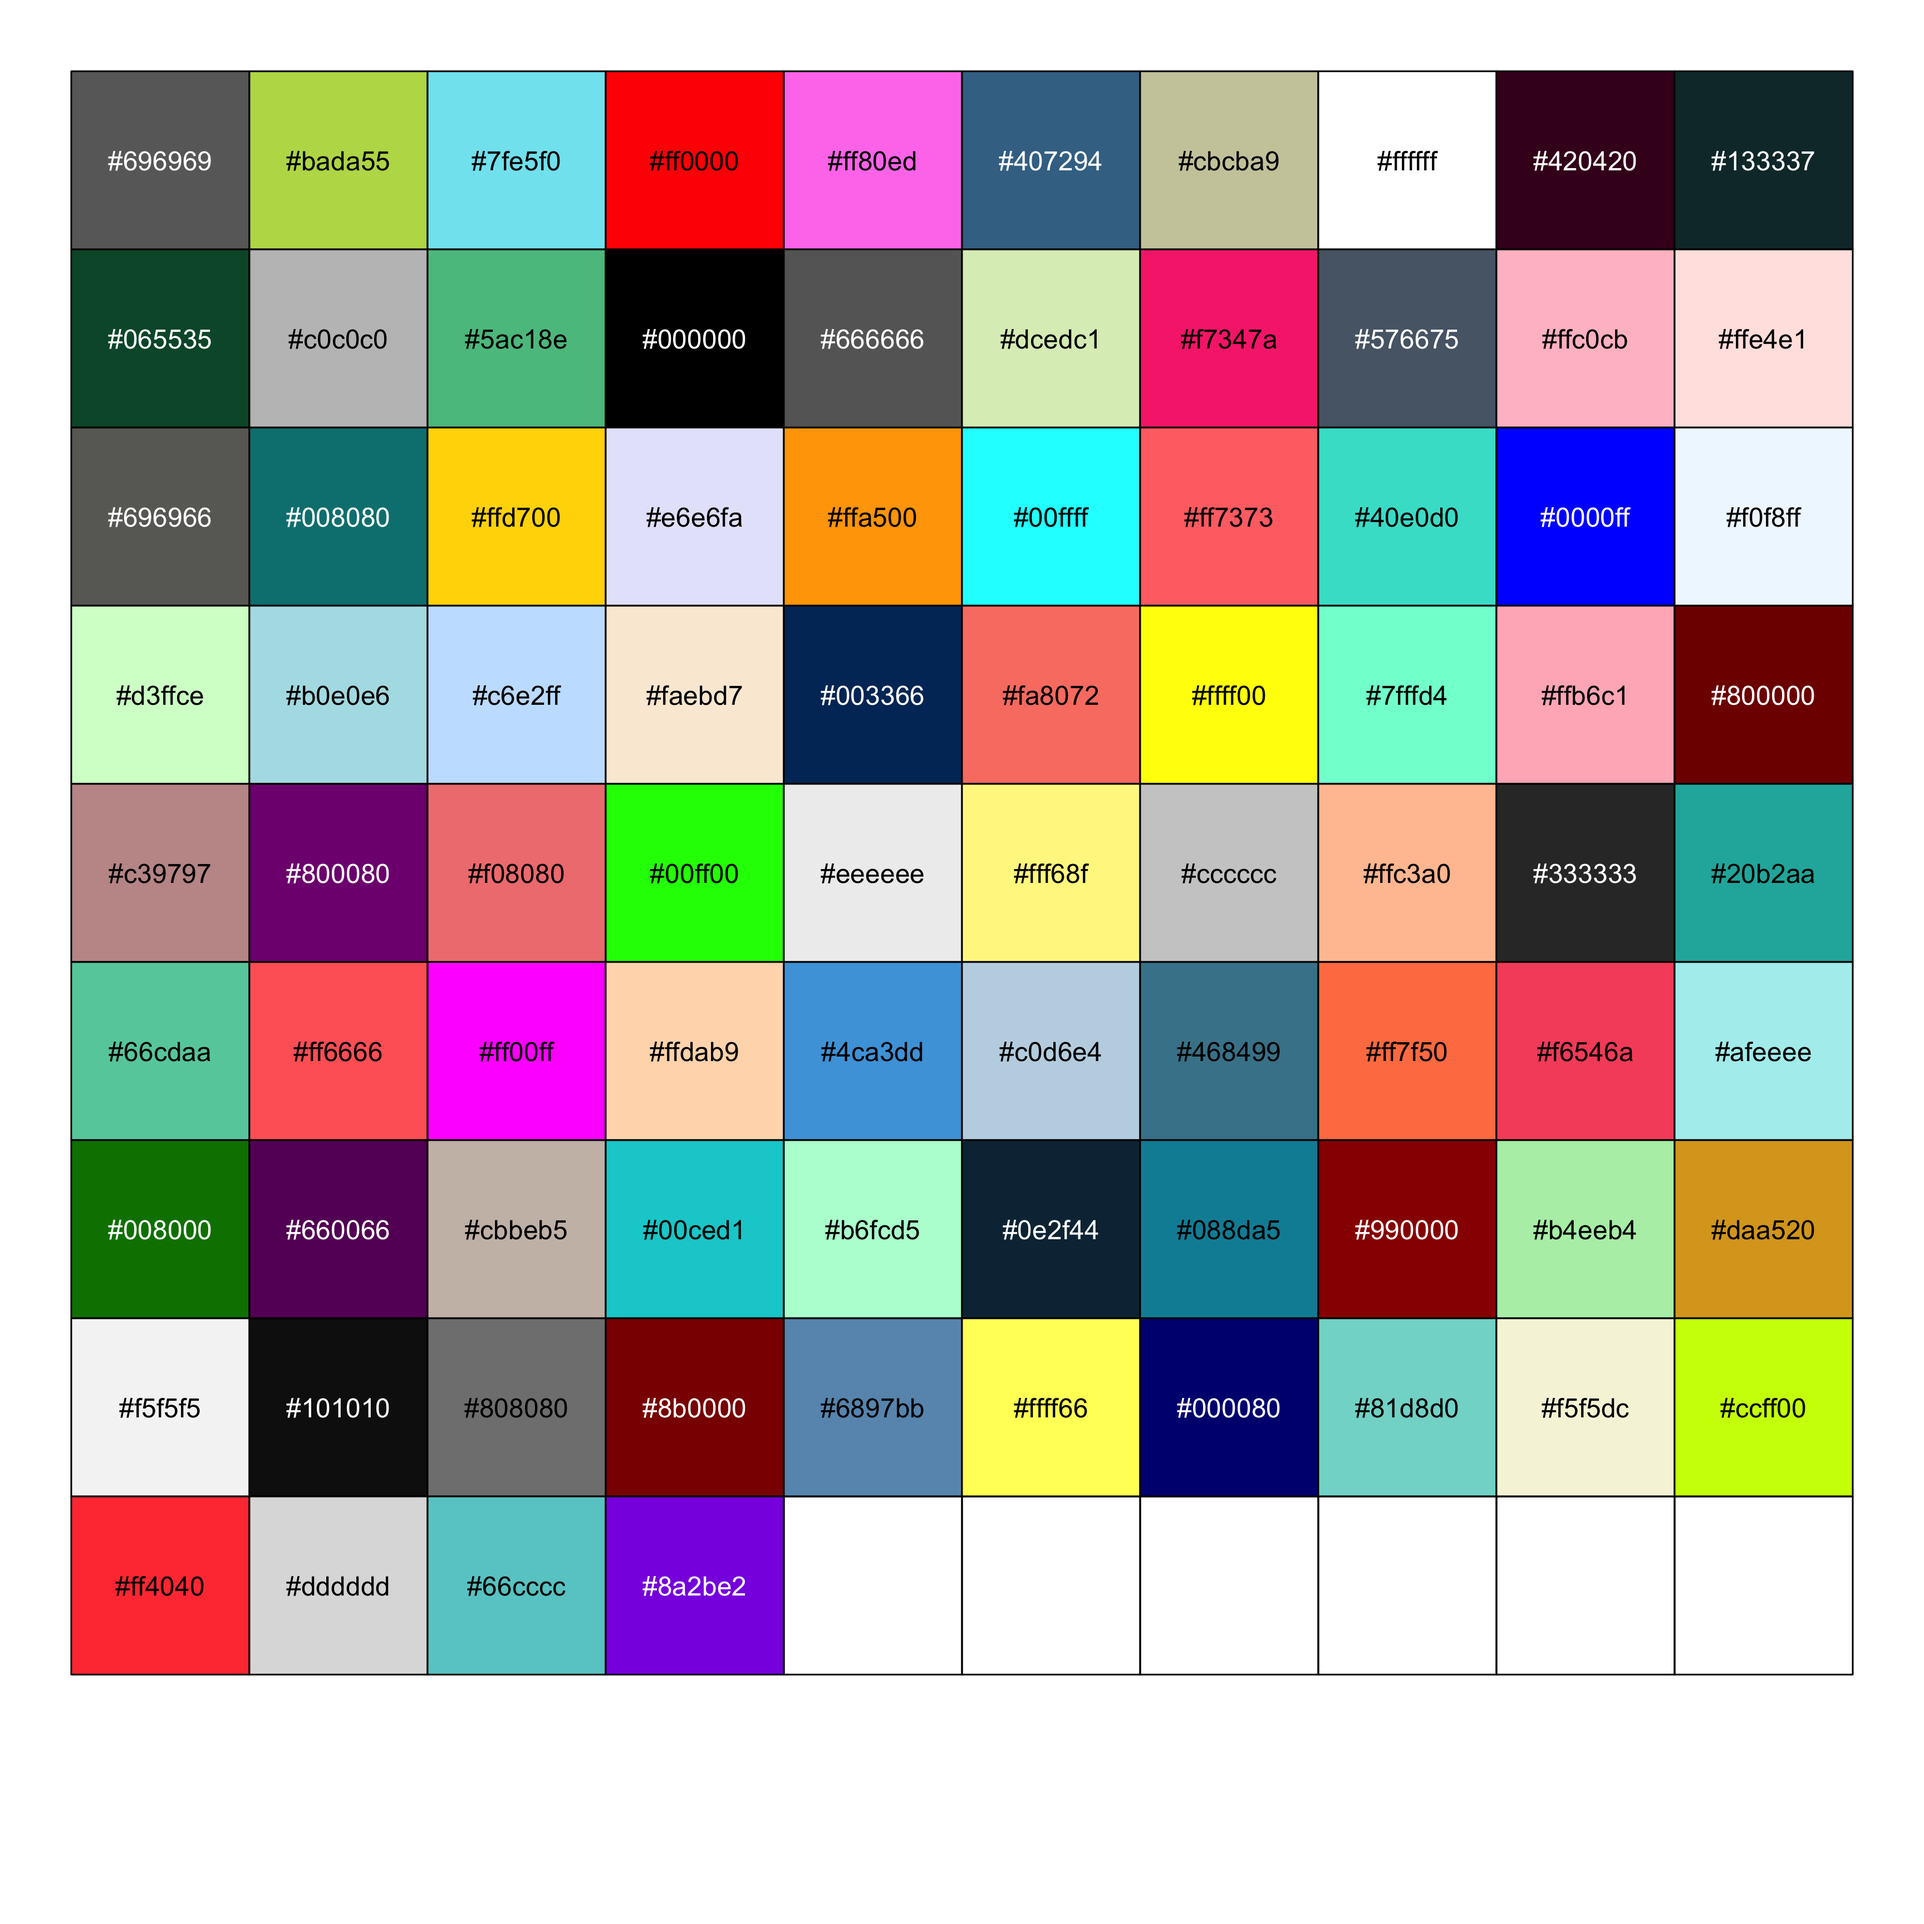
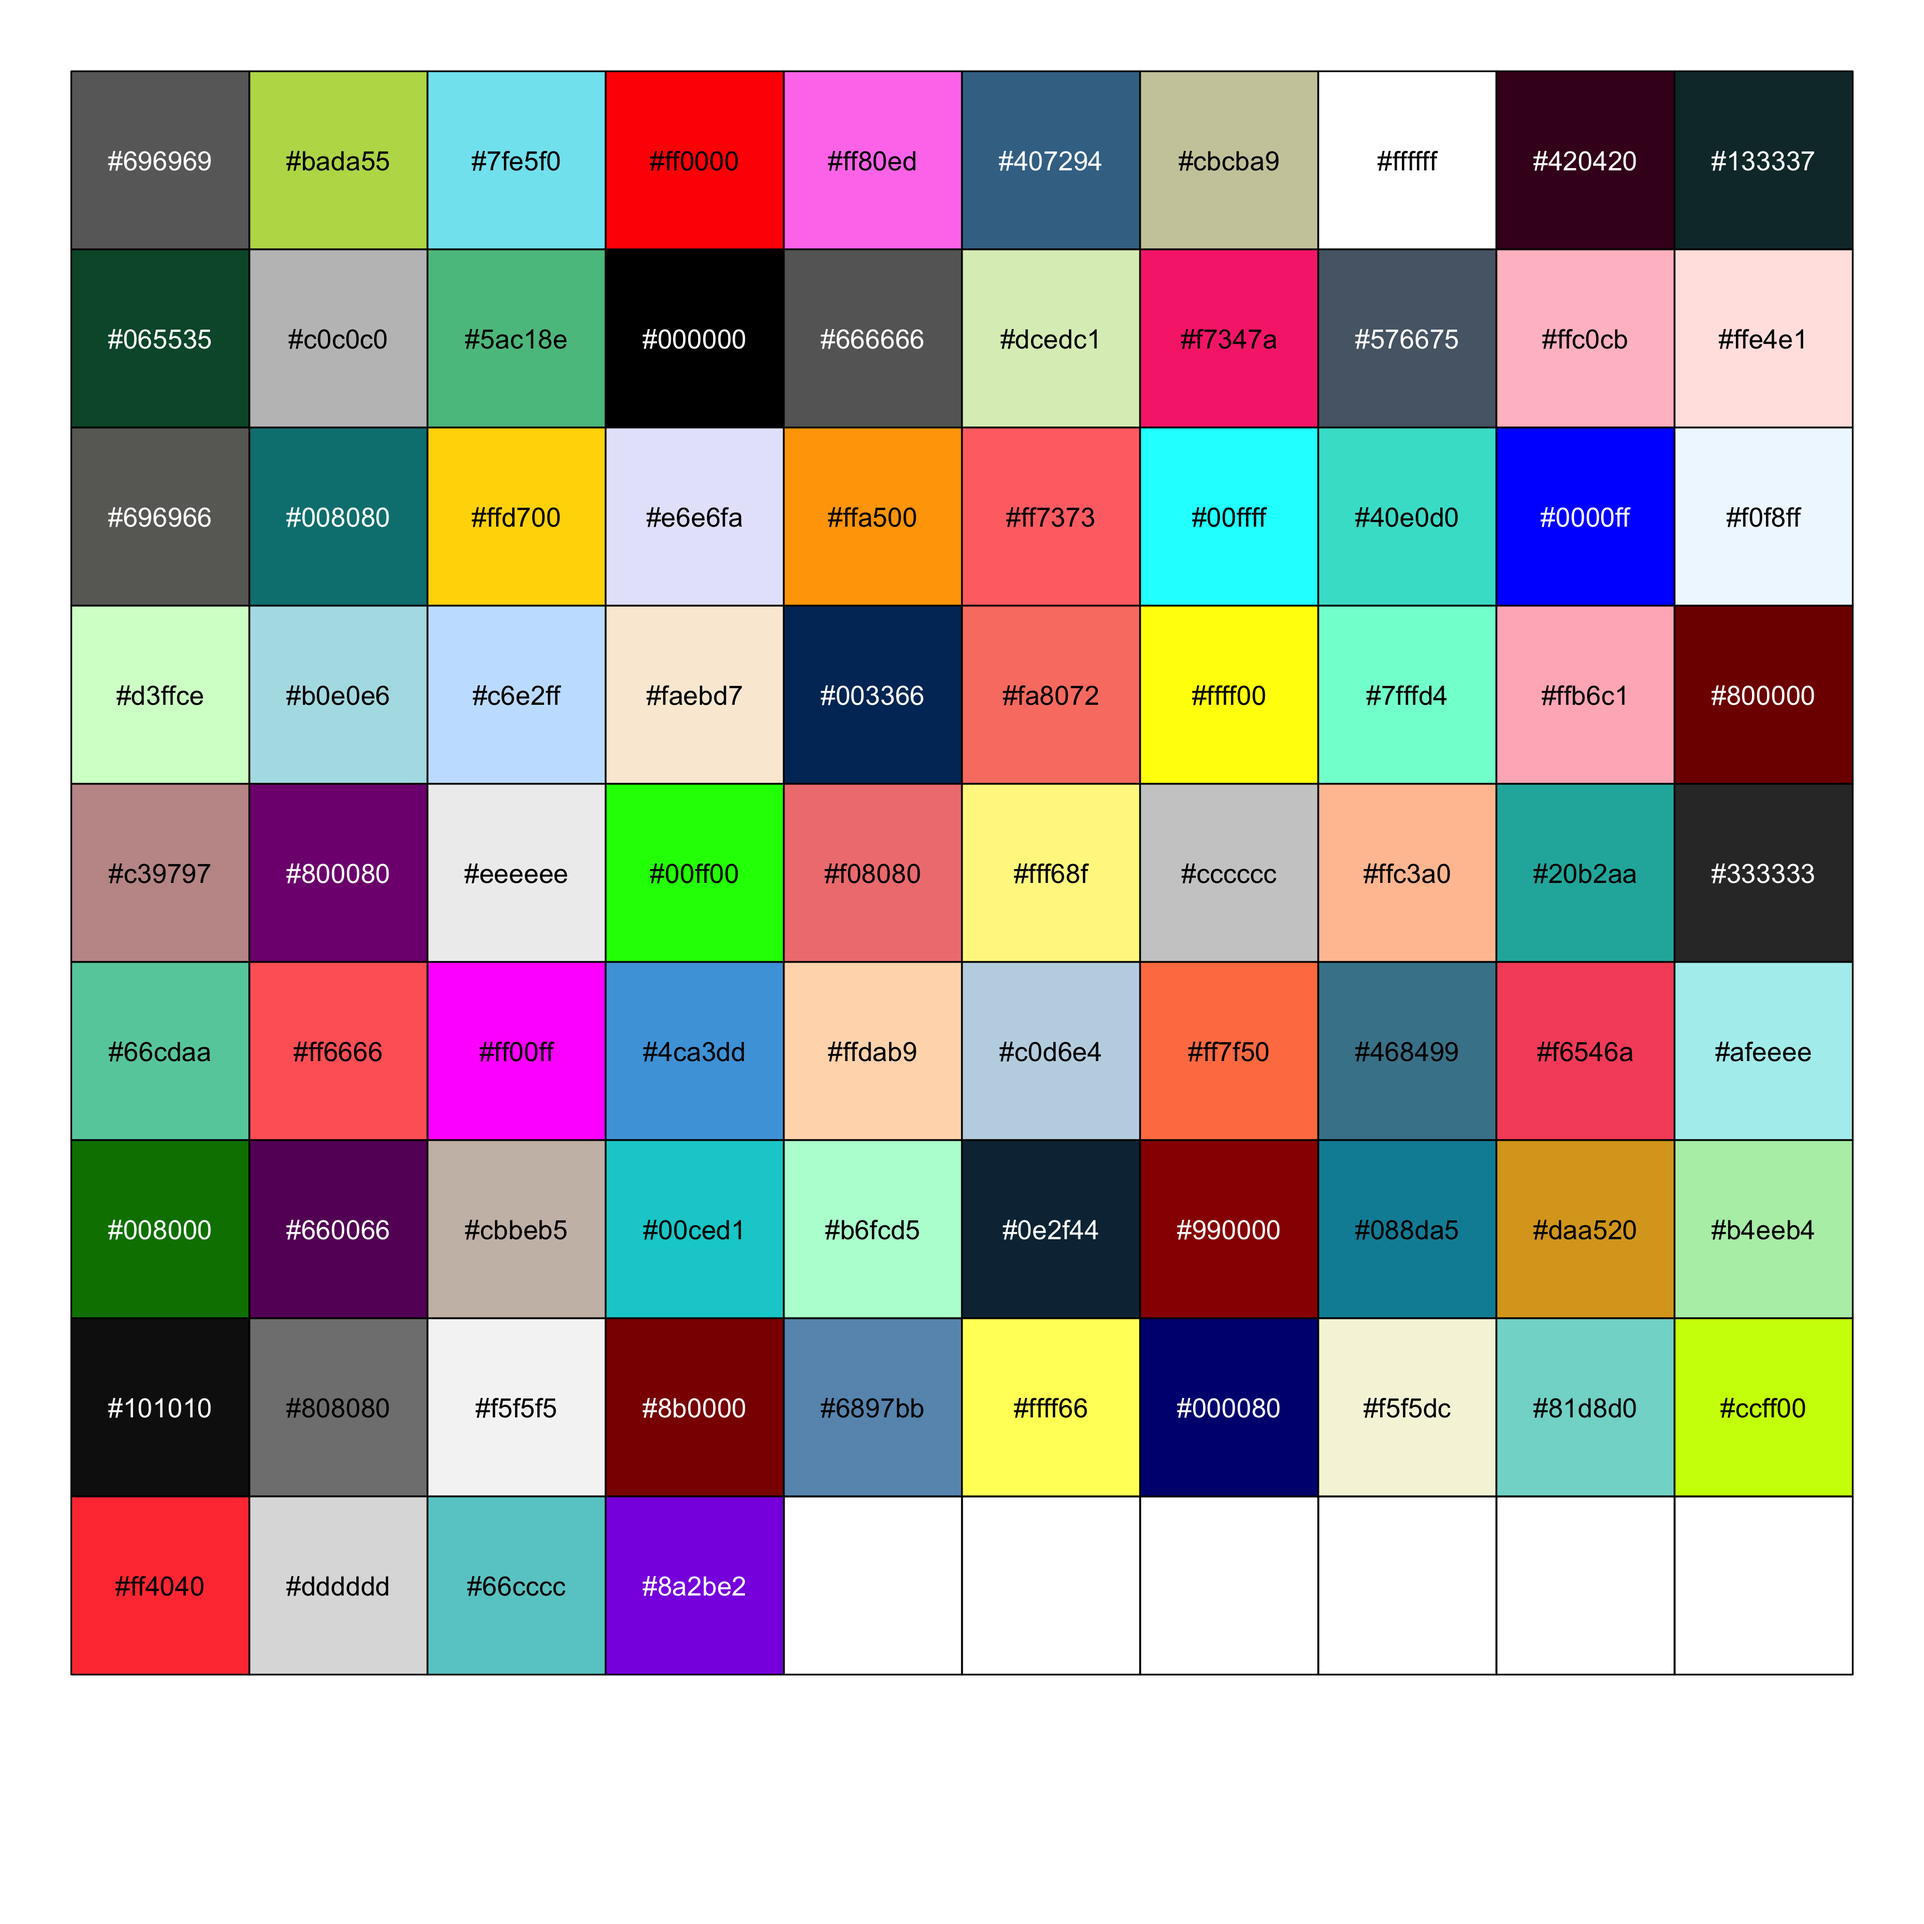
update readme

diff --git a/README.md b/README.md
@@ -49,6 +49,7 @@ x
 #> CMYK: 0.00, 0.79, 0.79   0.72
 #> triadic: #0f470f, #0f0f47
 #> complementary: #0f4747
+#> used in 2 palettes
 plot(x)
 ```
 
@@ -60,15 +61,15 @@ x
 #>  [1] "#696969" "#bada55" "#7fe5f0" "#ff0000" "#ff80ed" "#407294" "#cbcba9"
 #>  [8] "#ffffff" "#420420" "#133337" "#065535" "#c0c0c0" "#5ac18e" "#000000"
 #> [15] "#666666" "#dcedc1" "#f7347a" "#576675" "#ffc0cb" "#ffe4e1" "#696966"
-#> [22] "#008080" "#ffd700" "#e6e6fa" "#ffa500" "#00ffff" "#ff7373" "#40e0d0"
+#> [22] "#008080" "#ffd700" "#e6e6fa" "#ffa500" "#ff7373" "#00ffff" "#40e0d0"
 #> [29] "#0000ff" "#f0f8ff" "#d3ffce" "#b0e0e6" "#c6e2ff" "#faebd7" "#003366"
 #> [36] "#fa8072" "#ffff00" "#7fffd4" "#ffb6c1" "#800000" "#c39797" "#800080"
-#> [43] "#f08080" "#00ff00" "#eeeeee" "#fff68f" "#cccccc" "#ffc3a0" "#333333"
-#> [50] "#20b2aa" "#66cdaa" "#ff6666" "#ff00ff" "#ffdab9" "#4ca3dd" "#c0d6e4"
-#> [57] "#468499" "#ff7f50" "#f6546a" "#afeeee" "#008000" "#660066" "#cbbeb5"
-#> [64] "#00ced1" "#b6fcd5" "#0e2f44" "#088da5" "#990000" "#b4eeb4" "#daa520"
-#> [71] "#f5f5f5" "#101010" "#808080" "#8b0000" "#6897bb" "#ffff66" "#000080"
-#> [78] "#81d8d0" "#f5f5dc" "#ccff00" "#ff4040" "#dddddd" "#66cccc" "#8a2be2"
+#> [43] "#eeeeee" "#00ff00" "#f08080" "#fff68f" "#cccccc" "#ffc3a0" "#20b2aa"
+#> [50] "#333333" "#66cdaa" "#ff6666" "#ff00ff" "#4ca3dd" "#ffdab9" "#c0d6e4"
+#> [57] "#ff7f50" "#468499" "#f6546a" "#afeeee" "#008000" "#660066" "#cbbeb5"
+#> [64] "#00ced1" "#b6fcd5" "#0e2f44" "#990000" "#088da5" "#daa520" "#b4eeb4"
+#> [71] "#101010" "#808080" "#f5f5f5" "#8b0000" "#6897bb" "#ffff66" "#000080"
+#> [78] "#f5f5dc" "#81d8d0" "#ccff00" "#ff4040" "#dddddd" "#66cccc" "#8a2be2"
 scales::show_col(x)
 ```
 
@@ -89,3 +90,88 @@ plot(popular)
 ```
 
 <img src="man/figures/README-popular-palettes-1.png" width="100%" />
+
+### ggplot2 scales
+
+``` r
+library(ggplot2)
+
+ggplot(mtcars, aes(mpg)) +
+   geom_density(aes(fill = disp, group = disp)) +
+   scale_fill_palettehex_c(popular)
+```
+
+<img src="man/figures/README-unnamed-chunk-2-1.png" width="100%" />
+
+``` r
+
+ggplot(mtcars, aes(mpg)) +
+  geom_density(aes(fill = disp, group = disp)) +
+  scale_fill_palettehex_c(popular, 3)
+```
+
+<img src="man/figures/README-unnamed-chunk-2-2.png" width="100%" />
+
+``` r
+
+ggplot(mtcars, aes(mpg, disp, colour = factor(cyl))) +
+   geom_point() +
+   scale_color_palettehex_d(popular)
+```
+
+<img src="man/figures/README-unnamed-chunk-2-3.png" width="100%" />
+
+``` r
+
+ggplot(mtcars, aes(mpg, disp, colour = factor(cyl))) +
+   geom_point() +
+   scale_color_palettehex_d(popular, 1872)
+```
+
+<img src="man/figures/README-unnamed-chunk-2-4.png" width="100%" />
+
+``` r
+x <- get_color("#008080")
+
+ggplot(mtcars, aes(mpg)) +
+   geom_density(aes(fill = disp, group = disp)) +
+   scale_fill_colorhex_c(x)
+```
+
+<img src="man/figures/README-unnamed-chunk-3-1.png" width="100%" />
+
+``` r
+
+ggplot(mtcars, aes(mpg)) +
+  geom_density(aes(fill = disp, group = disp)) +
+  scale_fill_colorhex_c(x, "tints")
+```
+
+<img src="man/figures/README-unnamed-chunk-3-2.png" width="100%" />
+
+``` r
+
+ggplot(mtcars, aes(mpg)) +
+  geom_density(aes(fill = disp, group = disp)) +
+  scale_fill_colorhex_c(x, "shades")
+```
+
+<img src="man/figures/README-unnamed-chunk-3-3.png" width="100%" />
+
+``` r
+
+ggplot(mtcars, aes(mpg, disp, colour = factor(cyl))) +
+   geom_point() +
+   scale_color_colorhex_d(x, "triadic")
+```
+
+<img src="man/figures/README-unnamed-chunk-3-4.png" width="100%" />
+
+``` r
+
+ggplot(mtcars, aes(mpg, disp, colour = factor(cyl))) +
+   geom_point() +
+   scale_color_colorhex_d(x, "shades")
+```
+
+<img src="man/figures/README-unnamed-chunk-3-5.png" width="100%" />
